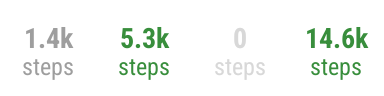
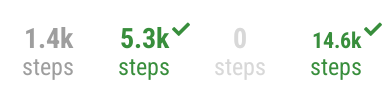
feat: Häkchen an erreichten messbaren Gewohnheiten (#47) (#153)
Closes #47

## Änderung
- Messbare Gewohnheiten mit erreichtem Ziel zeigen oben rechts an der
Zahl ein kleines Häkchen (gleiche Position/Größe wie das Kreuz, Farbe
der Zahl). Negativgewohnheiten bekommen kein Häkchen.
- Passen Zahl und Markierung (Häkchen oder Kreuz) nicht in die Spalte,
wird die Zahl kleiner dargestellt statt abgeschnitten.

## Hinweise
- Export: n. a. – Import: n. a. (rein visuell, keine Datenänderung)
- README: ergänzt
- Lokal: ktlintCheck und assembleDebug grün; nicht auf einem Gerät
geprüft.

🤖 Generated with [Claude Code](https://claude.com/claude-code)

---------

Changed region(s): [[0.7812, 0.2188, 1.0, 0.5], [0.4375, 0.2188, 0.5, 0.375]]

diff --git a/uhabits-android/src/main/java/org/isoron/uhabits/activities/habits/list/views/NumberButton.kt b/uhabits-android/src/main/java/org/isoron/uhabits/activities/habits/list/views/NumberButton.kt
@@ -197,9 +197,33 @@ class NumberButtonView(
                 }
             }
 
+            // Marker at the upper right of the number: cross when a limit is exceeded,
+            // check mark when a goal is reached (so it is visible without color)
+            val isNumber = !isZz && state.value >= 0 && state.value != Entry.SKIP.toDouble() / 1000
+            val marker: String? = when {
+                !isNumber -> null
+                state.isNegative && !state.completed && state.value > 0.0 -> resources.getString(R.string.fa_times)
+                !state.isNegative && state.completed && state.value > 0.0 -> resources.getString(R.string.fa_check)
+                else -> null
+            }
+            val markerPaint = TextPaint(pNumber).apply {
+                this.typeface = getFontAwesome()
+                this.textSize = 0.75f * dim(R.dimen.smallerTextSize)
+                textAlign = Paint.Align.LEFT
+            }
+
             pNumber.textSize = textSize
-            pNumber.color = activeColor
             pNumber.typeface = typeface
+            // The number is centered, so it must fit into half the width together with the marker:
+            // shrink it instead of cutting it off
+            val markerSpace = if (marker != null) markerPaint.measureText(marker) + 0.15f * em else 0f
+            val maxHalfWidth = width * 0.5f - 0.1f * em
+            while (pNumber.textSize > 0.6f * textSize &&
+                pNumber.measureText(label) / 2f + markerSpace > maxHalfWidth
+            ) {
+                pNumber.textSize = pNumber.textSize * 0.95f
+            }
+            pNumber.color = activeColor
             pUnit.color = activeColor
 
             // A "zz" day shows only the "zz", centered and without the unit
@@ -223,19 +247,14 @@ class NumberButtonView(
                 canvas.drawText(trimmedUnits, rect.centerX(), rect.centerY(), pUnit)
             }
 
-            if (state.isNegative && !state.completed && state.value > 0.0) {
-                // Small cross at the upper right of the exceeded number
-                val crossPaint = TextPaint(pNumber).apply {
-                    this.typeface = getFontAwesome()
-                    this.textSize = 0.75f * dim(R.dimen.smallerTextSize)
-                    textAlign = Paint.Align.LEFT
-                }
+            if (marker != null) {
                 val numberWidth = pNumber.measureText(label)
+                markerPaint.color = activeColor
                 canvas.drawText(
-                    resources.getString(R.string.fa_times),
+                    marker,
                     width / 2f + numberWidth / 2f + 0.15f * em,
                     height / 2f - 0.55f * em,
-                    crossPaint
+                    markerPaint
                 )
             }
 

diff --git a/README.md b/README.md
@@ -59,6 +59,7 @@ This fork adds the following on top of upstream. Changes are listed by pull requ
 * **Uniform gestures for all habit types** (#76). Yes/no, negative and measurable habits now share one scheme: a double tap runs the main action (check, or count up by the step size), a long press opens the dialog, and a single tap does nothing. The existing setting *Toggle with short press* is now called *Single tap instead of double tap* and applies to all habit types; it stays off by default, so everyone who had not enabled it now gets the double tap, while those who had keep the single tap, which then reacts without delay. The history calendar on the habit screen keeps its previous behavior.
 * **No more question marks** (#70). The *Show question marks* setting is gone, and tapping a day no longer cycles through a question mark. A day before a habit was created is the only place where "no entry" is a state of its own: if you entered something there by mistake, the last step of the tap cycle (and a reset button with an undo symbol in the entry dialog) clears the day again, and it is shown greyed out. From the creation day on, a day is only done or not done. Existing question marks after the creation day stay and turn into a normal value on the next tap. Every habit now stores the day it was created (for existing habits: the day of their oldest entry); it is part of the database backup, older backups are filled the same way. It is not part of the CSV export, which only contains entries, and it is not editable yet.
 * **Smooth horizontal scrolling** (#80, #139). The day columns of the habit list (header and rows) now follow the finger pixel by pixel instead of jumping from day to day, and settle on a whole day after you let go or after a fling, so taps always hit the right day. The outermost columns fade out in proportion to how far they scroll out of view (and fade in while they come into view), following the reading direction (also with reversed days and right-to-left). Purely visual: no setting, no data change, so nothing for backup, import or export. The habit-screen charts keep their previous scrolling.
+* **Check mark on reached goals** (#47). A measurable habit whose goal is reached shows a small check mark at the upper right of its number in the habit list, so success is recognizable without color (like the cross of an exceeded limit on habits to quit, which is unchanged; habits to quit get no check mark). If the number plus the mark would not fit into the column, the number is shown a bit smaller instead of being cut off; this also applies to the cross. Purely visual: no setting, no data change, so nothing for backup, import or export.
 * **Back in the "new habit" flow** (#60). Back now goes exactly one step: from the habit editor to the choice between yes/no and measurable, from there to the choice between building and quitting, and only from the first choice out of the flow. Saving the habit still closes the whole flow. No data change, so nothing for backup, import or export.
 * **Clearer scroll edges** (#141). You can no longer swipe past today (no more glitchy shift when already at today). The fade of the outer day columns is much stronger, and a clear line separates the habit names from the day columns (in the header and in every row). Purely visual, nothing for backup, import or export.
 * **Own application ID** (#104, #119, #120). The app is `com.improvemess.habits` instead of upstream's `org.isoron.uhabits`, a prerequisite for F-Droid. It installs next to the original Loop and does not update fork releases up to 2.26; data moves over with a database backup (see [Installing](#installing)). Intent actions (widgets, Tasker, Home Assistant `org.isoron.uhabits.SET_ENTRY` and `HABIT_EVENT`) keep their names; only automations that name the package have to change. Release APKs are named `com.improvemess.habits.<version>.apk` (before: `loop-<version>.apk`), the debug APKs of pull requests `com.improvemess.habits.debug.<version>-<commit>.apk` (#137; before: `com.improvemess.habits.<version>-debug-<commit>.apk`).

diff --git a/CLAUDE.md b/CLAUDE.md
@@ -50,6 +50,7 @@ For **every** change (feature, fix, change of behavior, permissions, dependencie
 - Known, pre-existing local test failures on Windows (not caused by us): `StringsTest.testFormat`, `HabitsCSVExporterTest.testExportCSV`, `HabitListTest.testWriteCSV`. Check CI before assuming a regression.
 - **Instrumented tests do not run locally** (no emulator); they are only compiled here. For changes to UI flows (dialogs, activities, navigation, back behavior), search `uhabits-android/src/androidTest` for affected steps before pushing (`CommonSteps.createHabit`, `HabitsTest` and others), update them and add an acceptance test for the new behavior. Results of `registerForActivityResult` arrive before `onStart`, i.e. after `onSaveInstanceState`: in the callback use `dismissAllowingStateLoss()` instead of `dismiss()`, and no fragment transactions with `commit()`.
 - **Check CI after every push** (`gh pr checks <nr> --repo improvemess/habits`, on failures `gh run view <id> --log-failed`) and fix failures before reporting the PR as done.
+- **View screenshot tests:** any visual change to a custom view (e.g. `NumberButton`, `CheckmarkButton`, habit card, number panel) changes the reference images in `uhabits-android/src/androidTest/assets/views/` (tests `*ViewTest`, `assertRenders`). Before the push, search `src/androidTest` for tests of the changed view. After the first CI run, if "Android (instrumented tests)" fails with "Image differs from expected", download the artifact `instrumented-results-N` (`gh run download <id> --repo improvemess/habits -n instrumented-results-N`), check the images in `test-screenshots/` visually, and copy them over the reference images. Use the CI images (Nexus 4, API 34), not local emulator renders: the cutoff is tight and other densities do not match.
 
 ## Local build environment (Windows)
 
